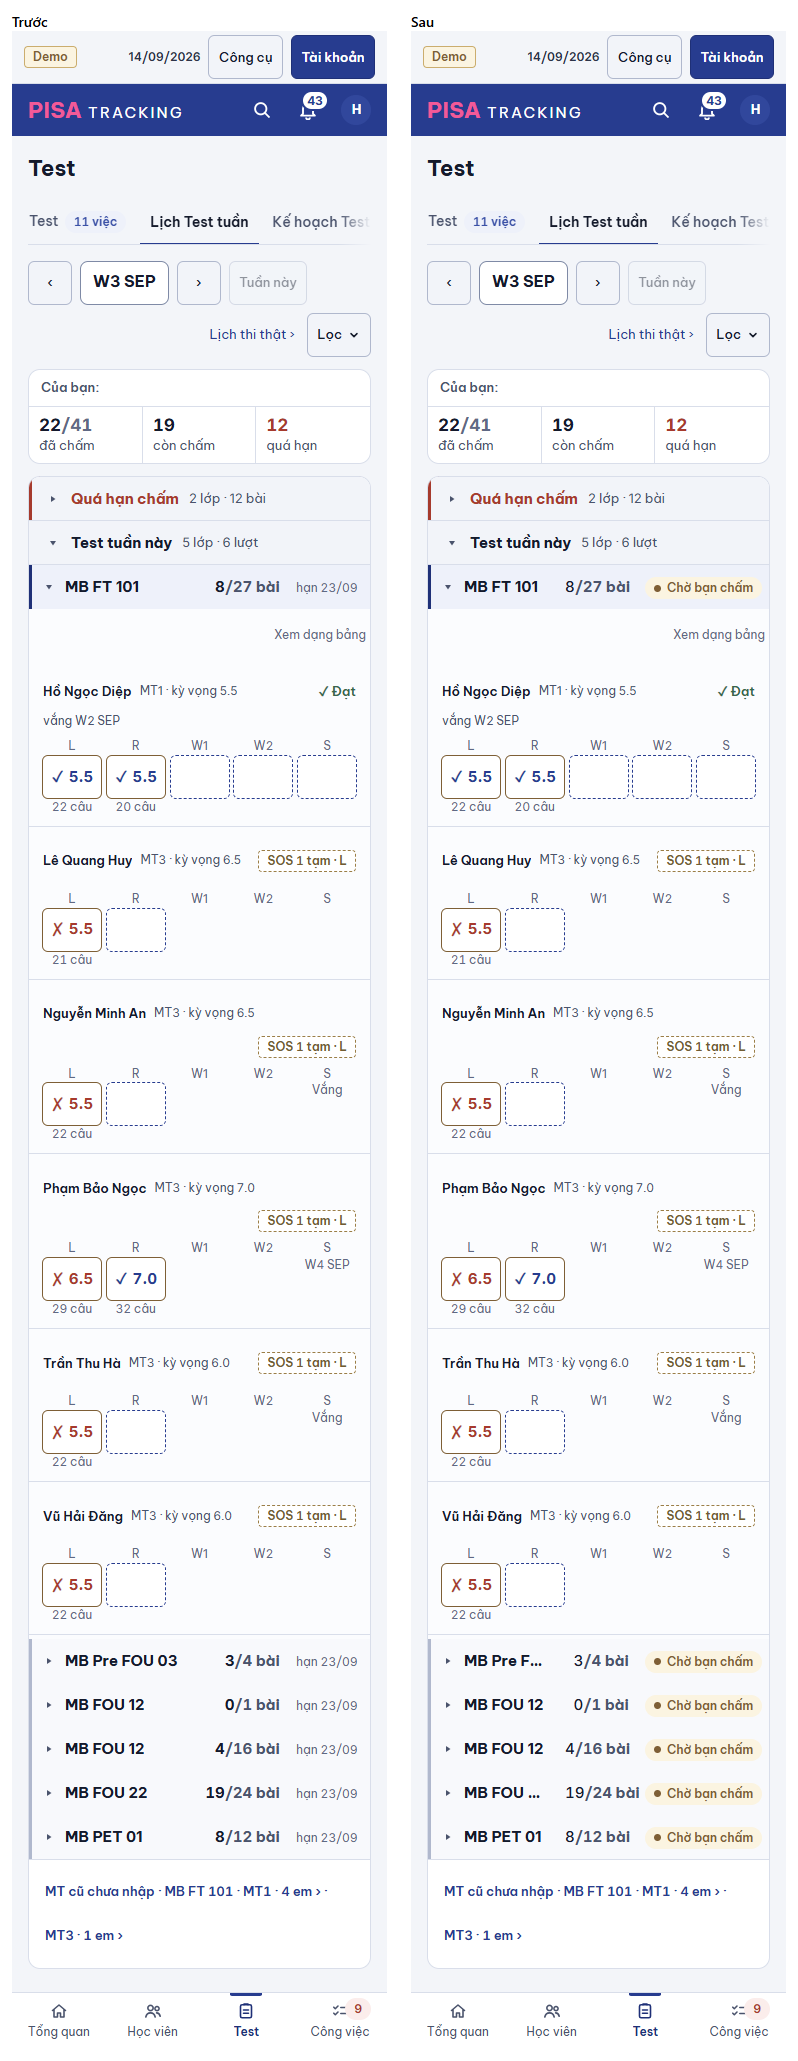
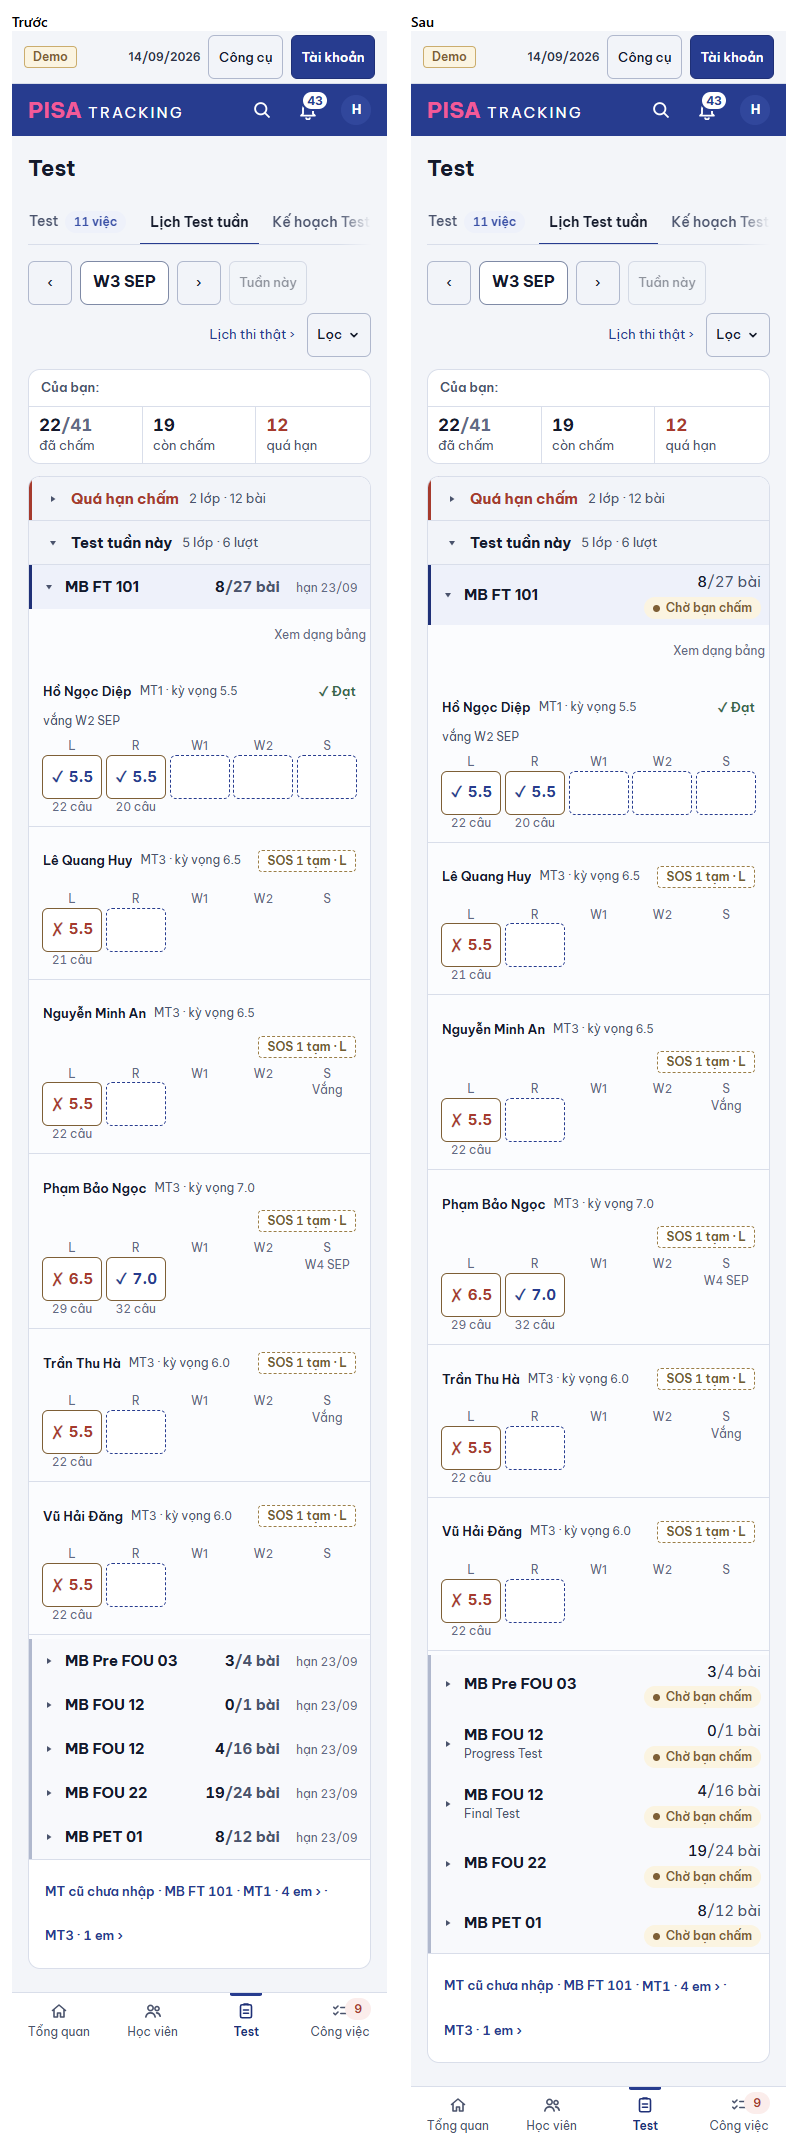
UI-LT-GON: 375 mã lớp đọc đủ, tên bài dưới mã khi lớp hai hàng, x/y trên · viên dưới (PTA rà)

diff --git a/web/src/modules/test/lichTest/HangLop.tsx b/web/src/modules/test/lichTest/HangLop.tsx
@@ -110,7 +110,7 @@ export function HangLop({ lop, moCua, onMo, onLopTiep, coChiNhanh, hep, urlClass
 }) {
   const { homNay } = useNgayNghiepVu();
   /* LT-GON: mã lớp · (tên bài khi một lớp có hai hàng) · chi nhánh · x/y bài · một viên — bỏ cột kỹ năng, hạn. */
-  const cot = hep ? [null, 80, 132] : [174, null, ...(coChiNhanh ? [110] : []), 110, 170];
+  const cot = hep ? [null, 132] : [174, null, ...(coChiNhanh ? [110] : []), 110, 170];
   /* Tên bài ("Final Test") chỉ khi cùng lớp có hơn một hàng trong danh sách — để phân biệt hai hàng. */
   const haiHang = new Set(lop.map((x) => x.classId).filter((id, i, a) => a.indexOf(id) !== i));   // U06 (mockup V11): x/y bài · hạn · MỘT badge (bỏ "phần của bạn / GV khác")   // hạn quá: "hạn 26/08 ⚠ quá hạn n ngày" · 220: "P của bạn: còn n bài" một dòng (D8) · 375: hạn "hạn 23/09" 58 px + đệm → 82, nhường tên lớp ("MB Pre FOU 03" 107 px)
   const soCot = cot.length;
@@ -130,11 +130,19 @@ export function HangLop({ lop, moCua, onMo, onLopTiep, coChiNhanh, hep, urlClass
         return (
           <tbody key={k}>
             <HangNhom mo={mo} onMo={() => onMo(l)} nhan={t('lớp {classCode}', { classCode: l.classCode })} className={mo ? 'dang-mo' : ''} title={goiYHang(l, homNay)}
-              tieuDe={<Link to={`/hoc-vien/lop/${l.classId}`} className="ten-ho-so block truncate text-[15px] font-bold" title={t('Hồ sơ lớp {classCode}', { classCode: l.classCode })}>{l.classCode}</Link>}>
+              tieuDe={hep ? (
+                /* LT-GON (PTA rà 375): mã lớp đọc ĐỦ (M2 — tên không cắt, xuống dòng nếu chật); lớp có hai hàng → tên bài chữ nhỏ mờ dưới mã. */
+                <span className="block min-w-0">
+                  <Link to={`/hoc-vien/lop/${l.classId}`} className="ten-ho-so block whitespace-normal break-words text-[15px] font-bold leading-snug" title={t('Hồ sơ lớp {classCode}', { classCode: l.classCode })}>{l.classCode}</Link>
+                  {haiHang.has(l.classId) && <span className="block text-xs font-normal text-dim">{l.luot.map((x) => dich(x.dot)).join(', ')}</span>}
+                </span>
+              ) : <Link to={`/hoc-vien/lop/${l.classId}`} className="ten-ho-so block truncate text-[15px] font-bold" title={t('Hồ sơ lớp {classCode}', { classCode: l.classCode })}>{l.classCode}</Link>}>
               {hep ? (
                 <>
-                  <td className="px-2 text-right"><TienDo l={l} /></td>
-                  <td className="whitespace-nowrap px-2 font-normal"><VienHang l={l} chuaLuu={chuaLuu[k]} /></td>
+                  {/* LT-GON (PTA rà 375): x/y bài trên, MỘT viên dưới — mã lớp ô trái đủ chỗ, viên không tràn mép. */}
+                  <td className="px-2 py-1.5 text-right font-normal">
+                    <span className="flex flex-col items-end gap-1"><TienDo l={l} /><VienHang l={l} chuaLuu={chuaLuu[k]} /></span>
+                  </td>
                 </>
               ) : (
                 <>
